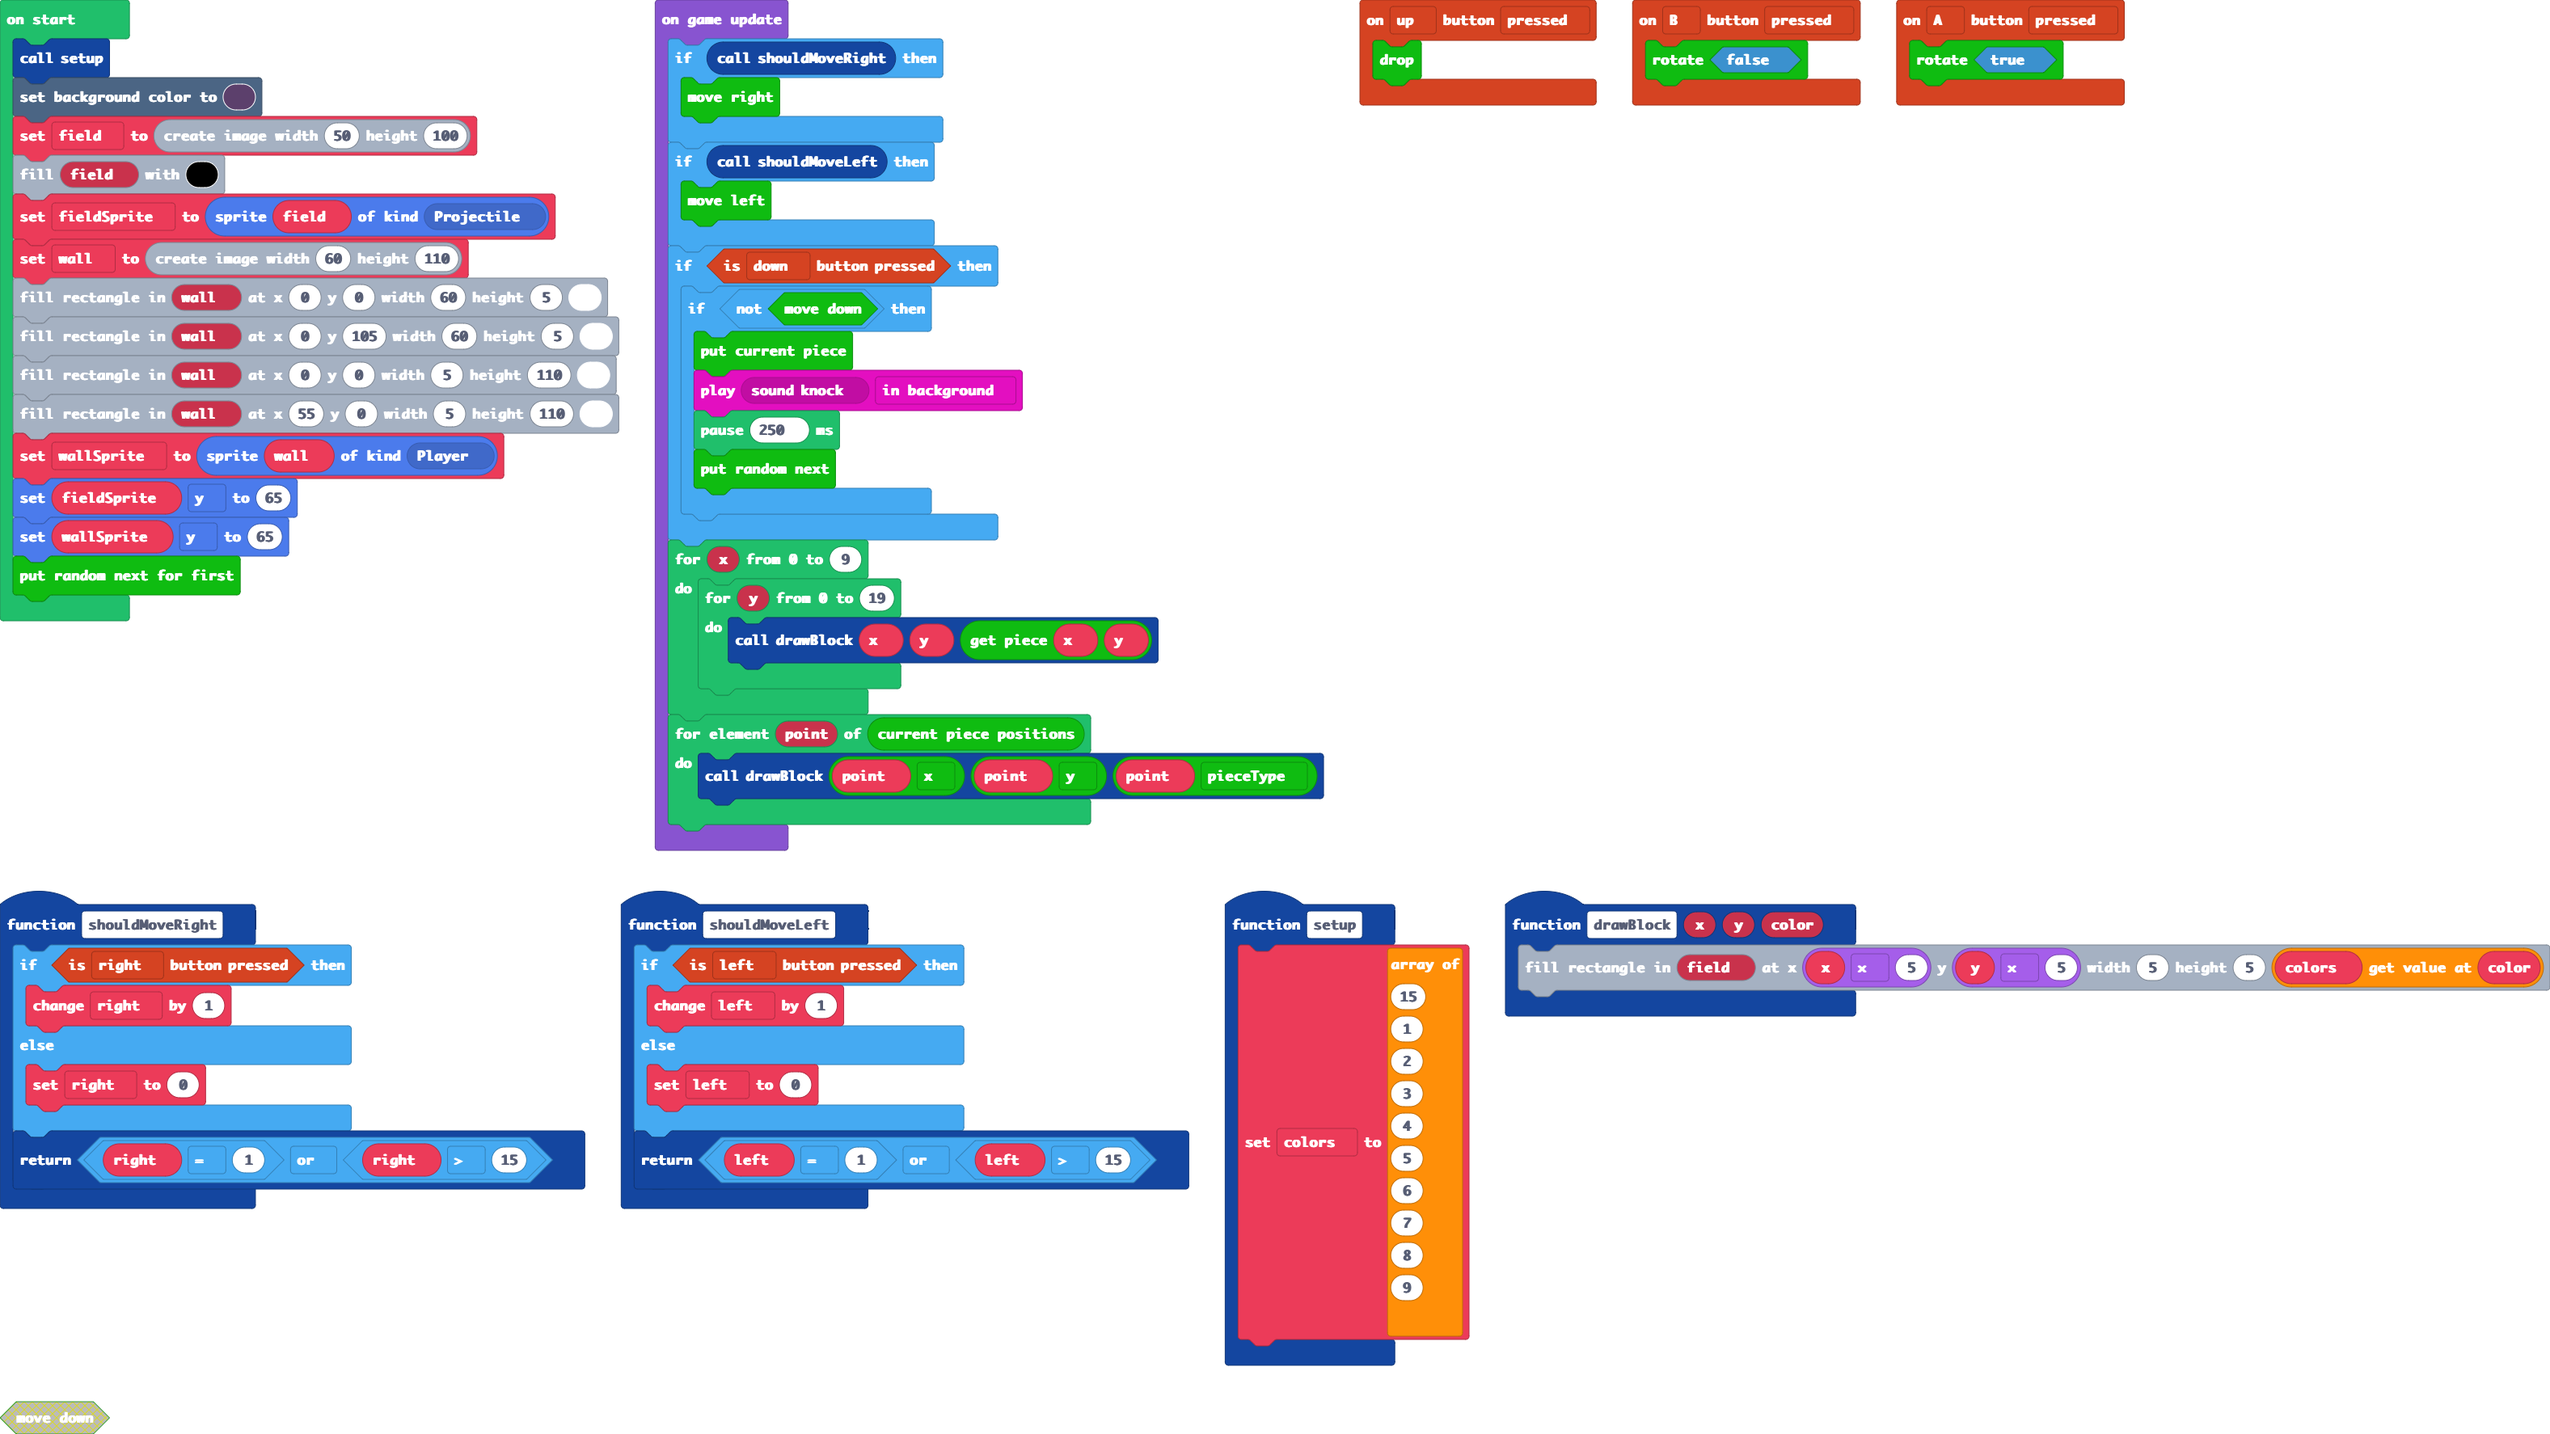
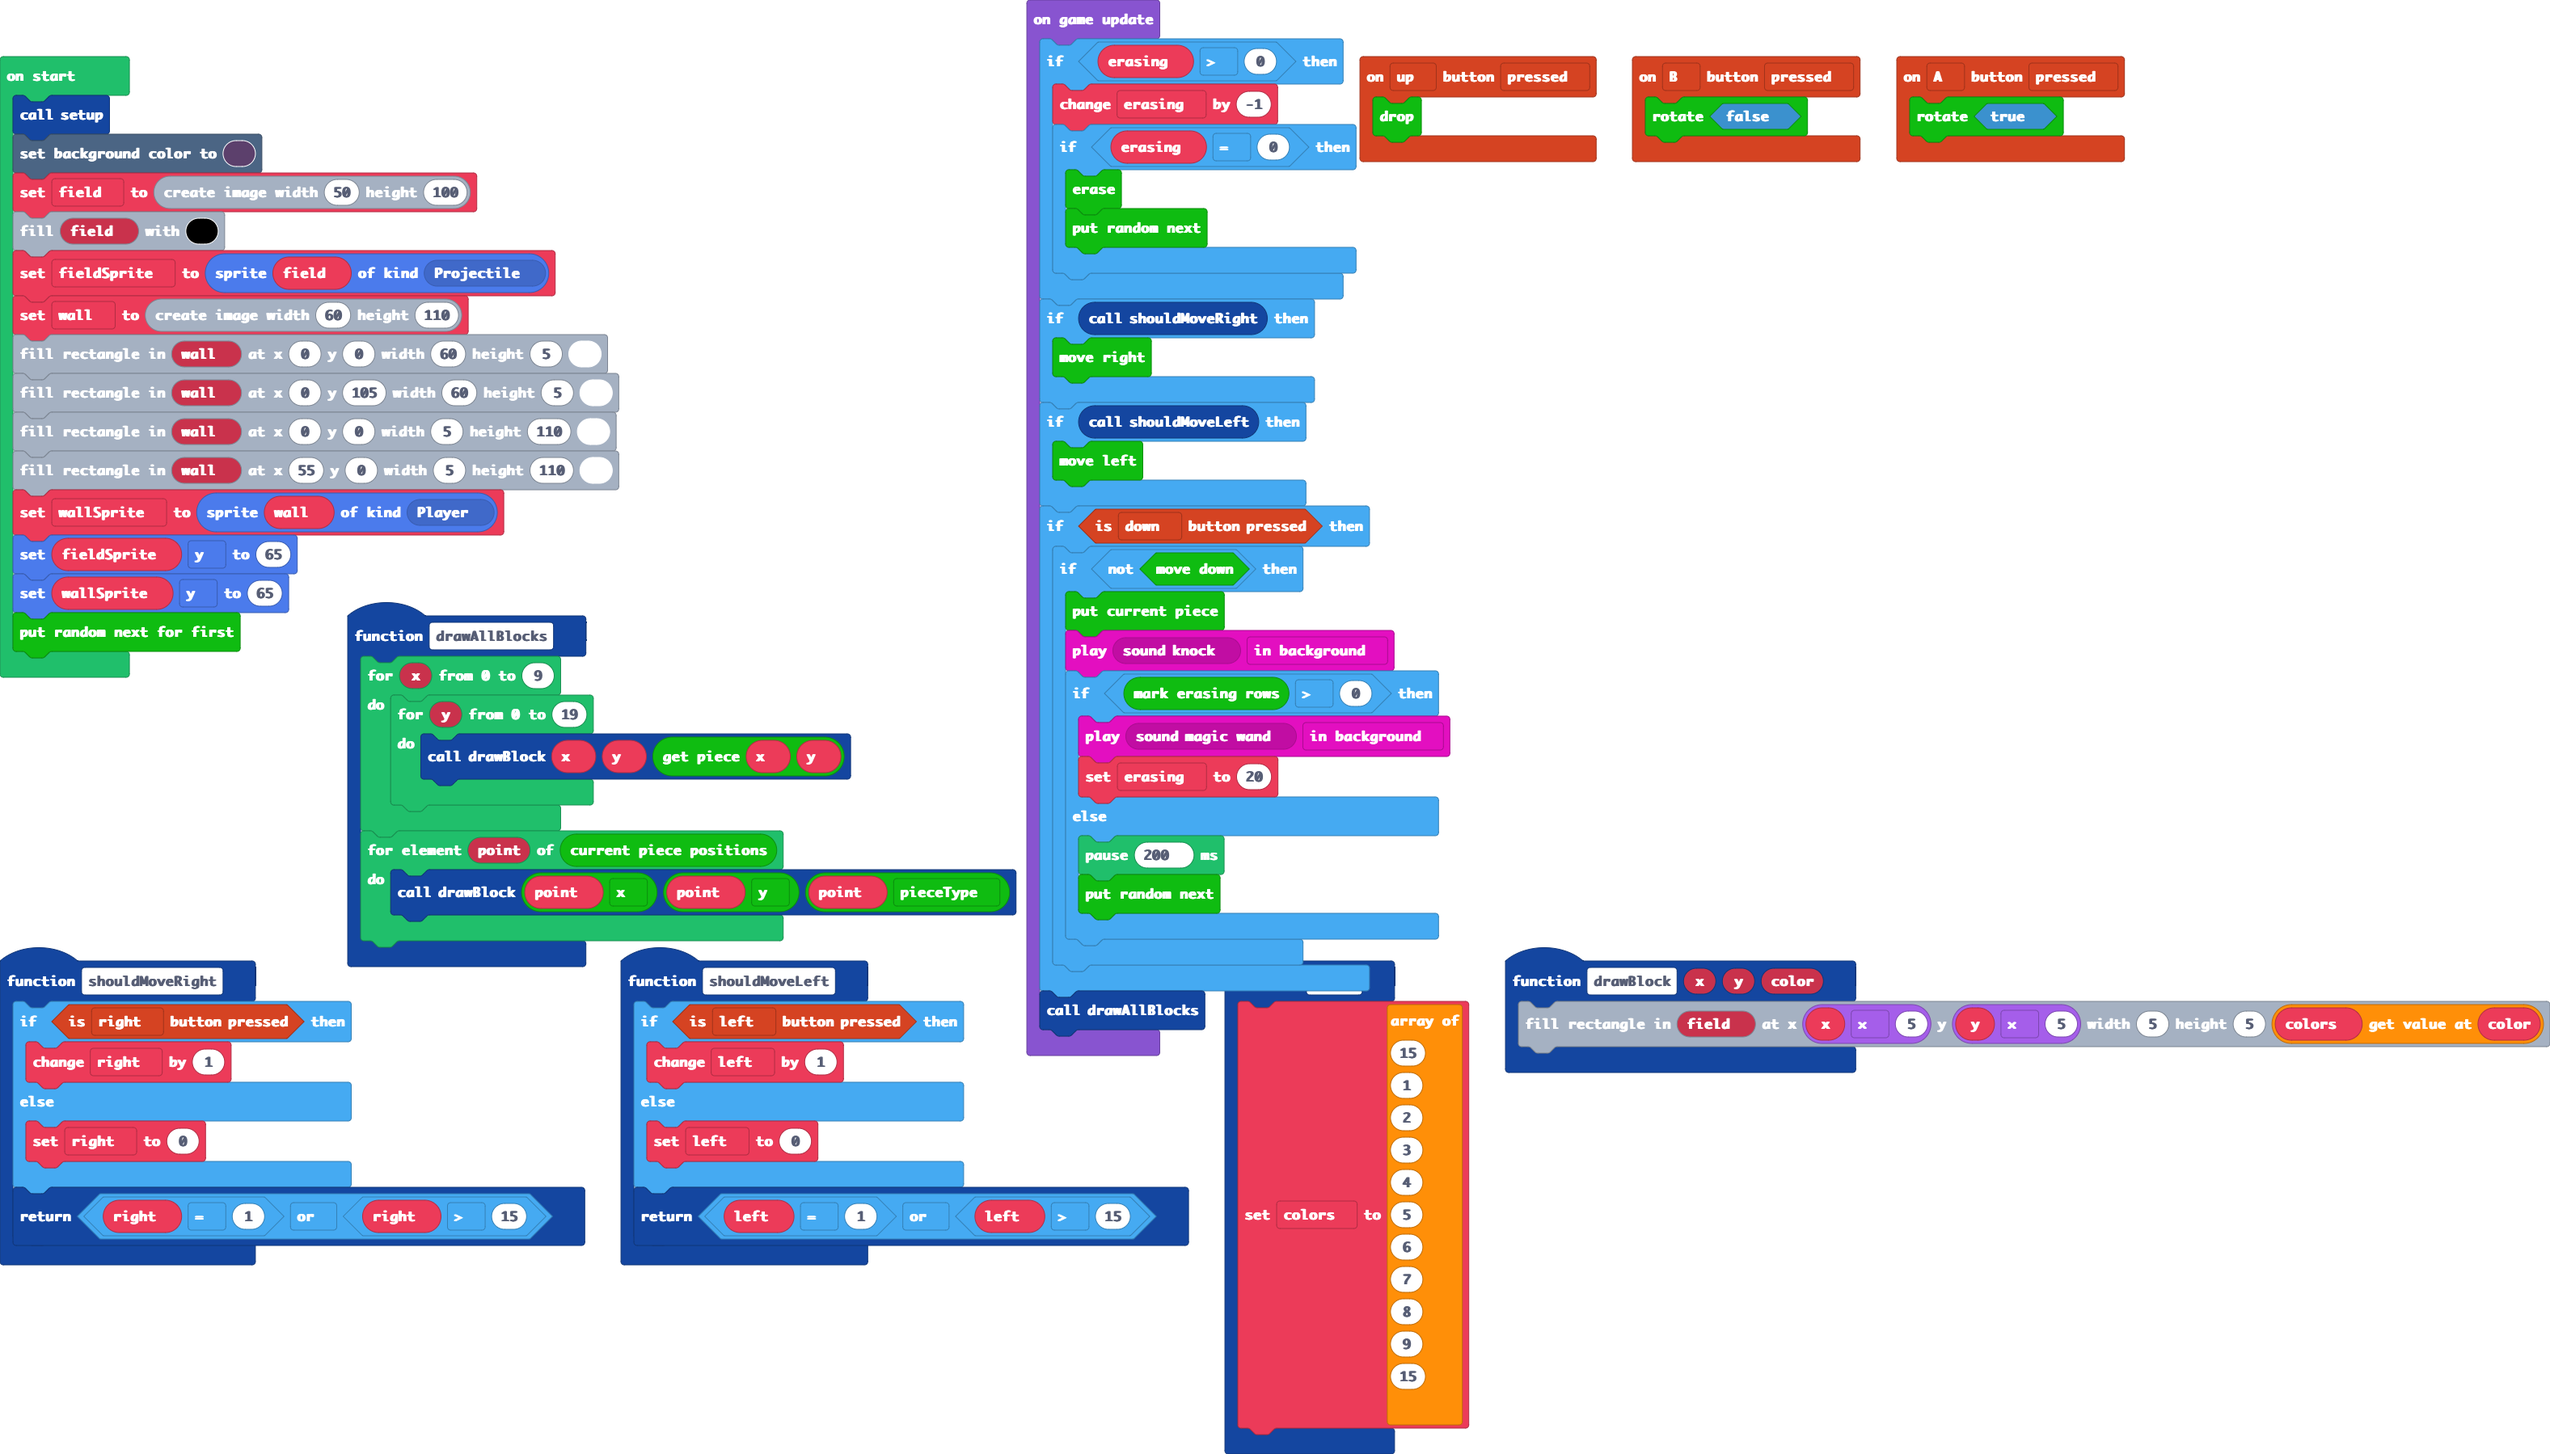
Enable to erase

diff --git a/main.ts b/main.ts
@@ -15,6 +15,16 @@ function shouldMoveLeft () {
 controller.A.onEvent(ControllerButtonEvent.Pressed, function () {
     TGM.rotate(true)
 })
+function drawAllBlocks () {
+    for (let x = 0; x <= 9; x++) {
+        for (let y = 0; y <= 19; y++) {
+            drawBlock(x, y, TGM.getPiece(x, y))
+        }
+    }
+    for (let point of TGM.currentPiecePositions()) {
+        drawBlock(point.x, point.y, point.pieceType)
+    }
+}
 function setup () {
     colors = [
     15,
@@ -26,7 +36,8 @@ function setup () {
     6,
     7,
     8,
-    9
+    9,
+    15
     ]
 }
 function drawBlock (x: number, y: number, color: number) {
@@ -40,25 +51,33 @@ function shouldMoveRight () {
     }
     return right == 1 || right > 15
 }
+let erasing = 0
 let right = 0
 let colors: number[] = []
 let left = 0
 let field: Image = null
 setup()
-scene.setBackgroundColor(12)
+scene.setBackgroundColor(11)
 field = image.create(50, 100)
 field.fill(15)
 let fieldSprite = sprites.create(field, SpriteKind.Projectile)
 let wall = image.create(60, 110)
-wall.fillRect(0, 0, 60, 5, 11)
-wall.fillRect(0, 105, 60, 5, 11)
-wall.fillRect(0, 0, 5, 110, 11)
-wall.fillRect(55, 0, 5, 110, 11)
+wall.fillRect(0, 0, 60, 5, 14)
+wall.fillRect(0, 105, 60, 5, 14)
+wall.fillRect(0, 0, 5, 110, 14)
+wall.fillRect(55, 0, 5, 110, 14)
 let wallSprite = sprites.create(wall, SpriteKind.Player)
 fieldSprite.y = 65
 wallSprite.y = 65
 TGM.putRandomNextForFirst()
 game.onUpdate(function () {
+    if (erasing > 0) {
+        erasing += -1
+        if (erasing == 0) {
+            TGM.erase()
+            TGM.putRandomNext()
+        }
+    }
     if (shouldMoveRight()) {
         TGM.moveRight()
     }
@@ -69,16 +88,14 @@ game.onUpdate(function () {
         if (!(TGM.moveDown())) {
             TGM.putCurrentPiece()
             music.play(music.melodyPlayable(music.knock), music.PlaybackMode.InBackground)
-            pause(250)
-            TGM.putRandomNext()
+            if (TGM.markErasingRows() > 0) {
+                music.play(music.melodyPlayable(music.magicWand), music.PlaybackMode.InBackground)
+                erasing = 20
+            } else {
+                pause(200)
+                TGM.putRandomNext()
+            }
         }
     }
-    for (let x = 0; x <= 9; x++) {
-        for (let y = 0; y <= 19; y++) {
-            drawBlock(x, y, TGM.getPiece(x, y))
-        }
-    }
-    for (let point of TGM.currentPiecePositions()) {
-        drawBlock(point.x, point.y, point.pieceType)
-    }
+    drawAllBlocks()
 })

diff --git a/tgm.ts b/tgm.ts
@@ -12,17 +12,21 @@ namespace TGM {
             this.field = []
 
             for (let i = 0; i < height + 2; i++) {
-                let row: PieceType[] = []
-                row.push(PieceType.Wall)
-                for (let j = 0; j < width; j++) {
-                    row.push(PieceType.None)
-                }
-                row.push(PieceType.Wall)
-                this.field.push(row)
+                this.field.push(this.makeEmptyRow())
             }
             for (let i = 0; i < width + 2; i++) {
                 this.field[height + 1][i] = PieceType.Wall
             }
+        }
+
+        makeEmptyRow(): PieceType[] {
+            let row: PieceType[] = []
+            row.push(PieceType.Wall)
+            for (let i = 0; i < this.width; i++) {
+                row.push(PieceType.None)
+            }
+            row.push(PieceType.Wall)
+            return row
         }
     }
 
@@ -144,6 +148,32 @@ namespace TGM {
             this.blockState.positions().forEach(e => {
                 this.field.field[e.y][e.x] = this.blockState.pieceType
             })
+            this.blockState = BlockState.empty()
+        }
+
+        markErasingRows(): number {
+            let marked = 0
+            for (let y = 1; y < this.field.height + 1; y++) {
+                if (this.field.field[y].filter(e => e == PieceType.None).length == 0) {
+                    marked++
+                    for (let x = 1; x < this.field.width + 1; x++) {
+                        this.field.field[y][x] = PieceType.Erasing
+                    }
+                }
+            }
+            return marked
+        }
+
+        erase() {
+            let newField: PieceType[][] = []
+            for (let y = 0; y < this.field.height + 2; y++) {
+                if (this.field.field[y].filter(e => e == PieceType.Erasing).length > 0) {
+                    newField.insertAt(0, this.field.makeEmptyRow())
+                } else {
+                    newField.push(this.field.field[y])
+                }
+            }
+            this.field.field = newField
         }
     }
 

diff --git a/custom.ts b/custom.ts
@@ -69,7 +69,7 @@ namespace TGM {
 
     //% block
     export function drop() {
-        while (gameController.move(0, 1)) {}
+        while (gameController.move(0, 1)) { }
     }
 
     //% block
@@ -78,8 +78,13 @@ namespace TGM {
     }
 
     //% block
-    export function putNext(pieceType: PieceType) {
-        gameController.blockState = new BlockState(pieceType, 5, 1)
+    export function markErasingRows(): number {
+        return gameController.markErasingRows()
+    }
+
+    //% block
+    export function erase() {
+        gameController.erase()
     }
 
     //% block
